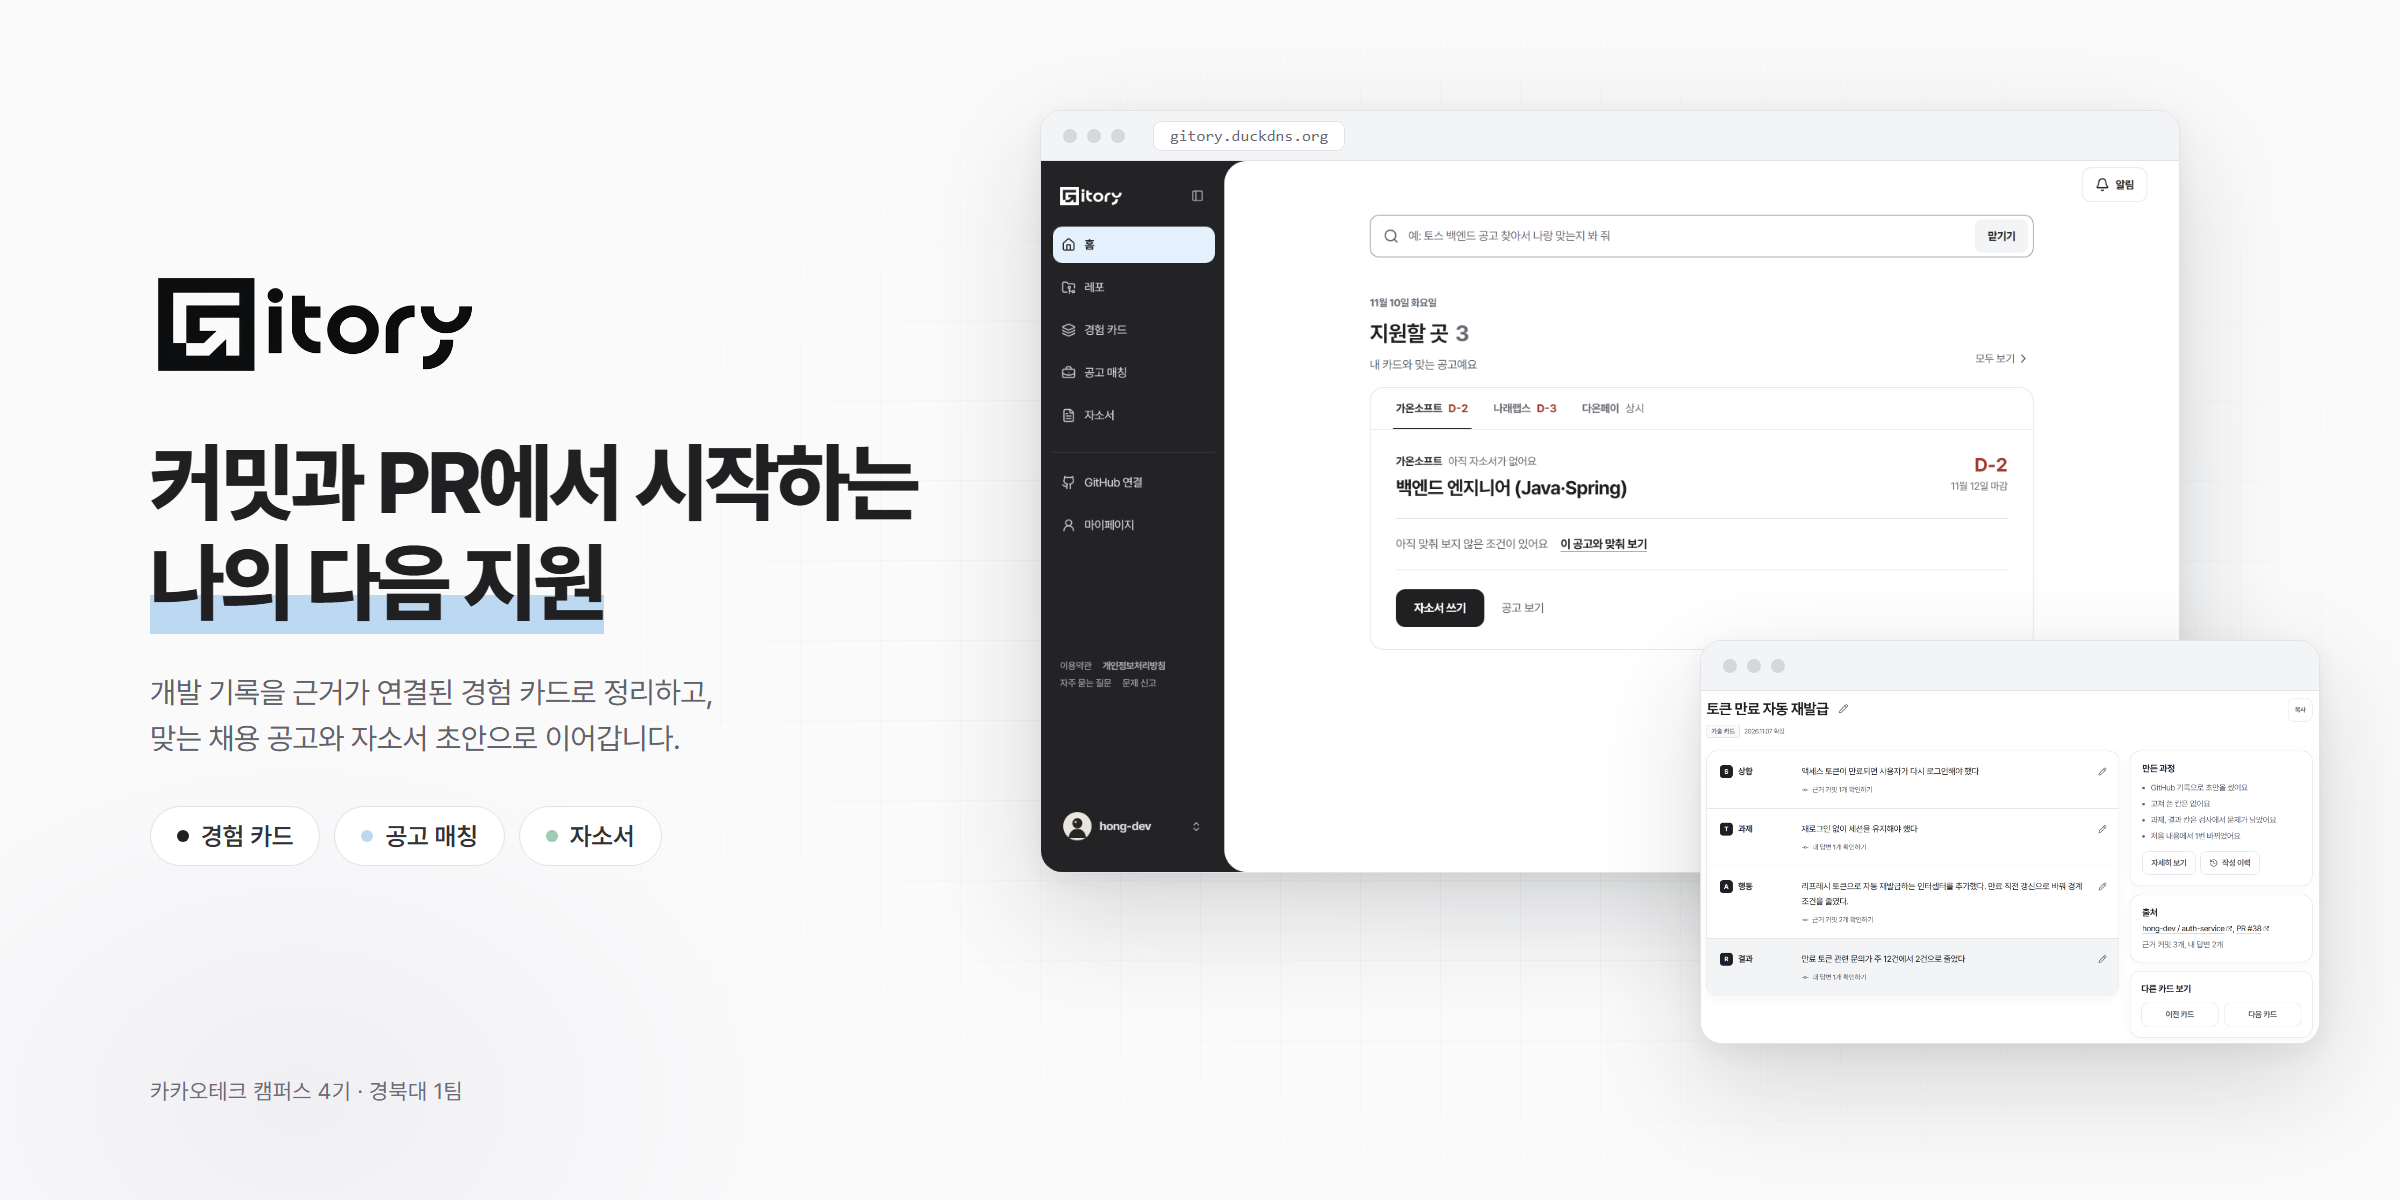
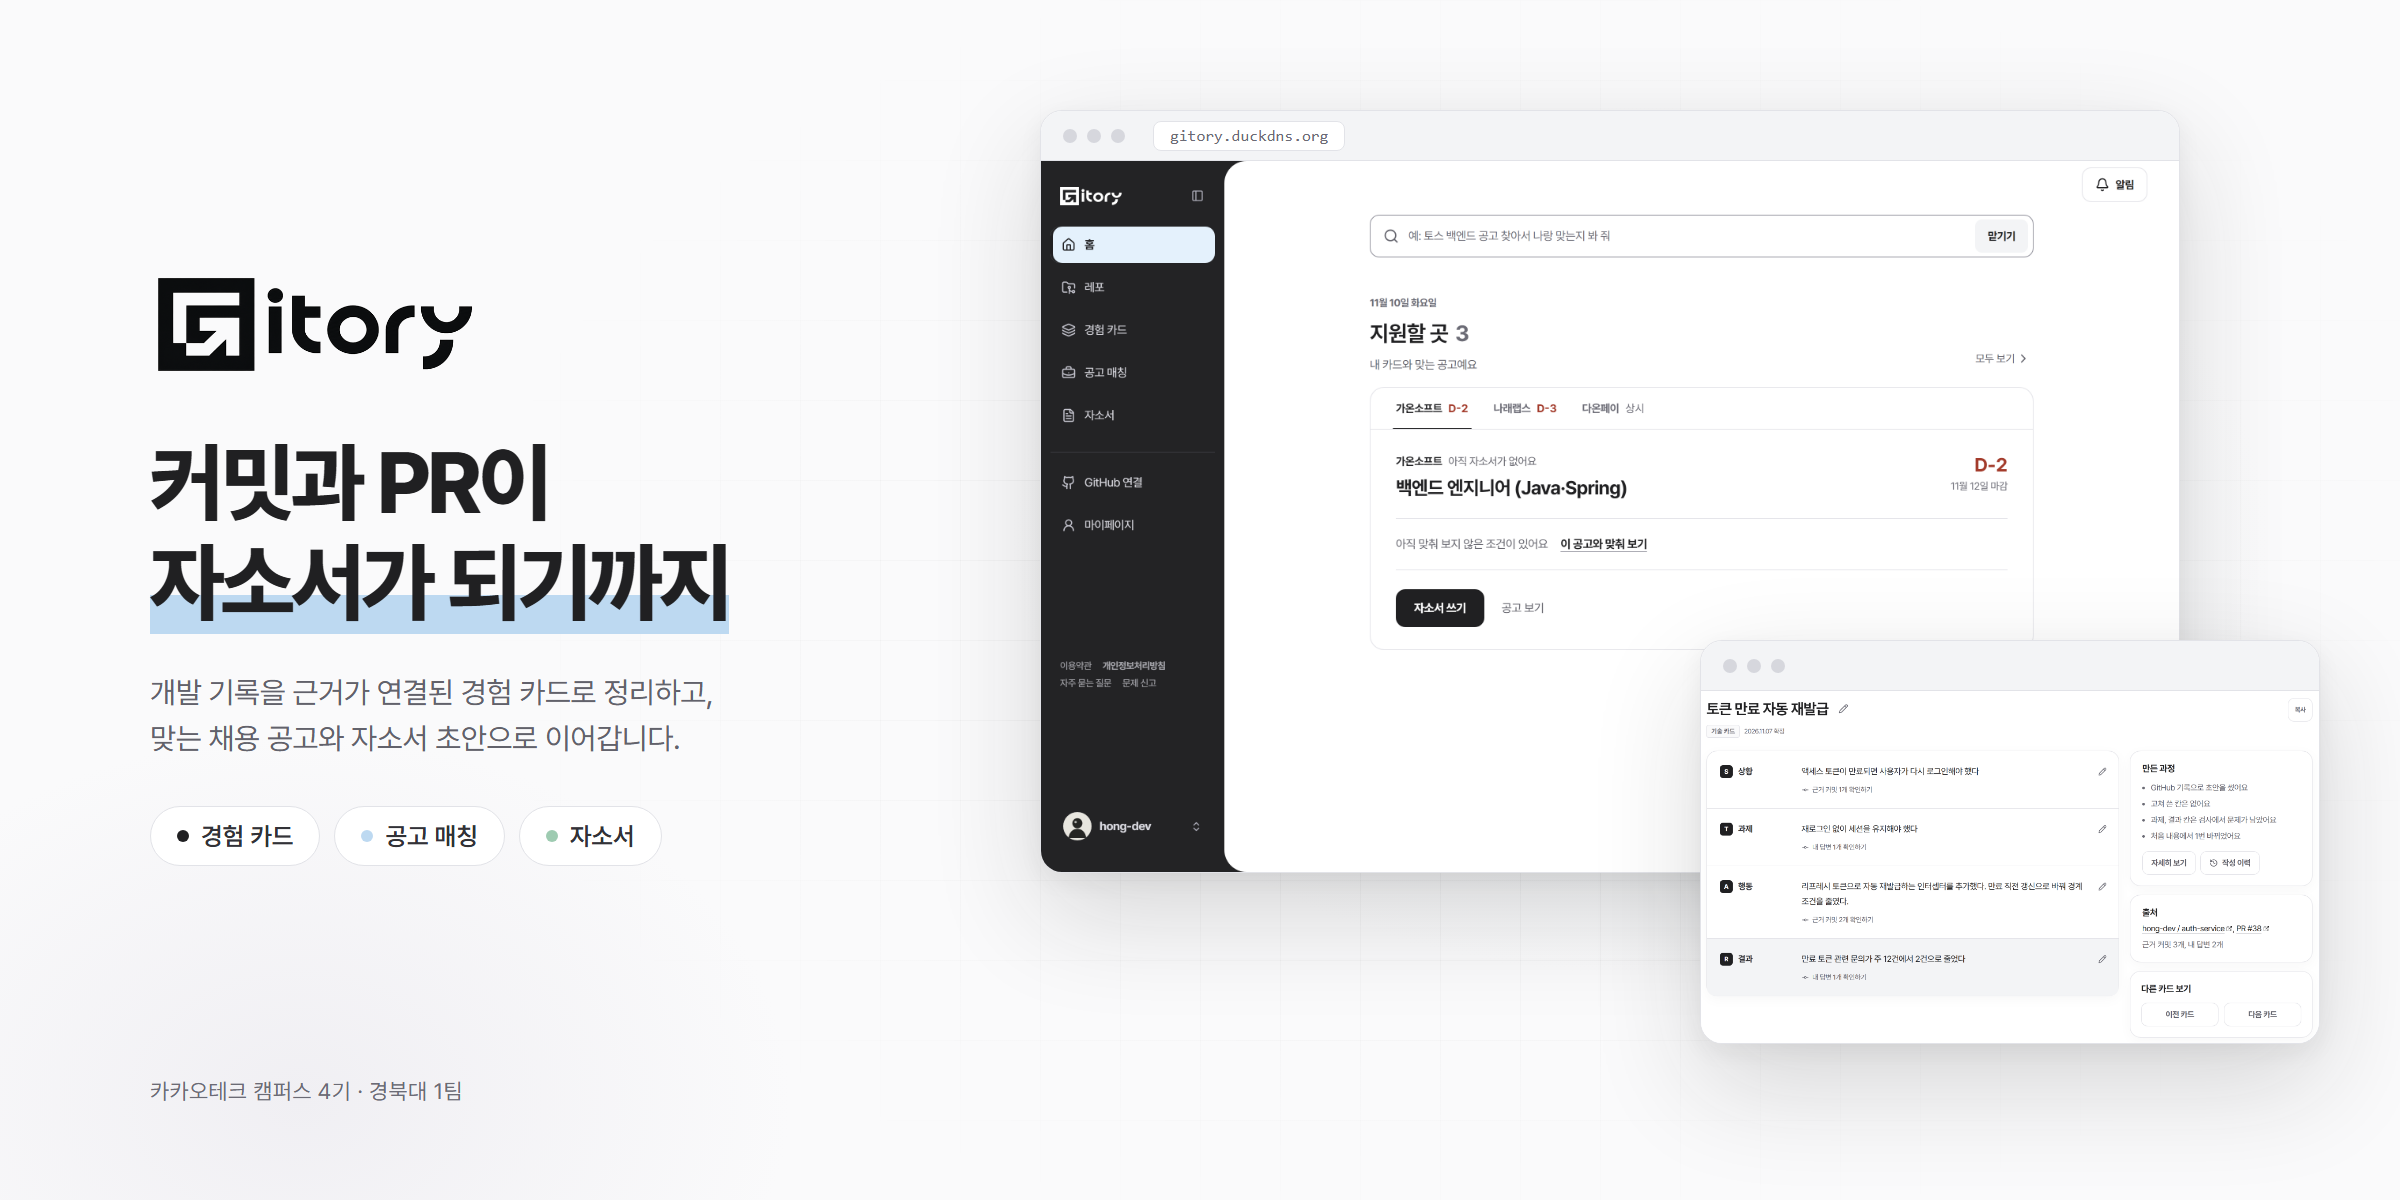
docs: 소개 문구를 커밋과 PR이 자소서가 되기까지로 바꾸고 소개 이미지를 다시 그림

Changed region(s): [[0.0625, 0.37, 0.4062, 0.555]]

diff --git a/README.md b/README.md
@@ -1,10 +1,10 @@
 <p align="center">
-  <img src="./docs/images/readme/hero.png" width="100%" alt="Gitory 소개 이미지. 왼쪽에 '커밋과 PR에서 시작하는 나의 다음 지원'이라는 제목과 경험 카드·공고 매칭·자소서 세 기능, 오른쪽에 지원할 공고를 보여 주는 홈 화면과 상황·과제·행동·결과가 채워진 경험 카드 화면" />
+  <img src="./docs/images/readme/hero.png?v=20261111b" width="100%" alt="Gitory 소개 이미지. 왼쪽에 '커밋과 PR이 자소서가 되기까지'라는 제목과 경험 카드·공고 매칭·자소서 세 기능, 오른쪽에 지원할 공고를 보여 주는 홈 화면과 상황·과제·행동·결과가 채워진 경험 카드 화면" />
 </p>
 
 <div align="center">
   <h1>Gitory</h1>
-  <p><strong>커밋과 PR에서 시작하는 나의 다음 지원</strong></p>
+  <p><strong>커밋과 PR이 자소서가 되기까지</strong></p>
   <p>GitHub 기록을 근거가 연결된 경험 카드로 정리하고,<br />내 경험에 맞는 채용 공고와 자소서 초안으로 이어갑니다.</p>
   <p>카카오테크 캠퍼스 4기 · 경북대 1팀</p>
   <p>
